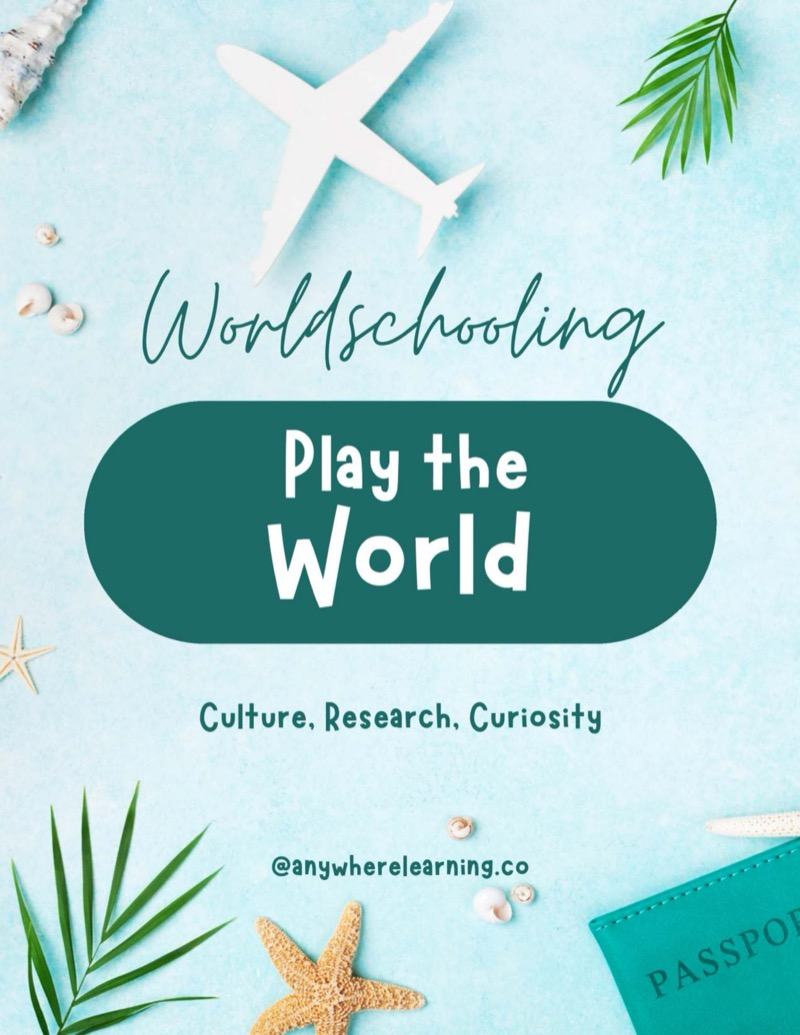
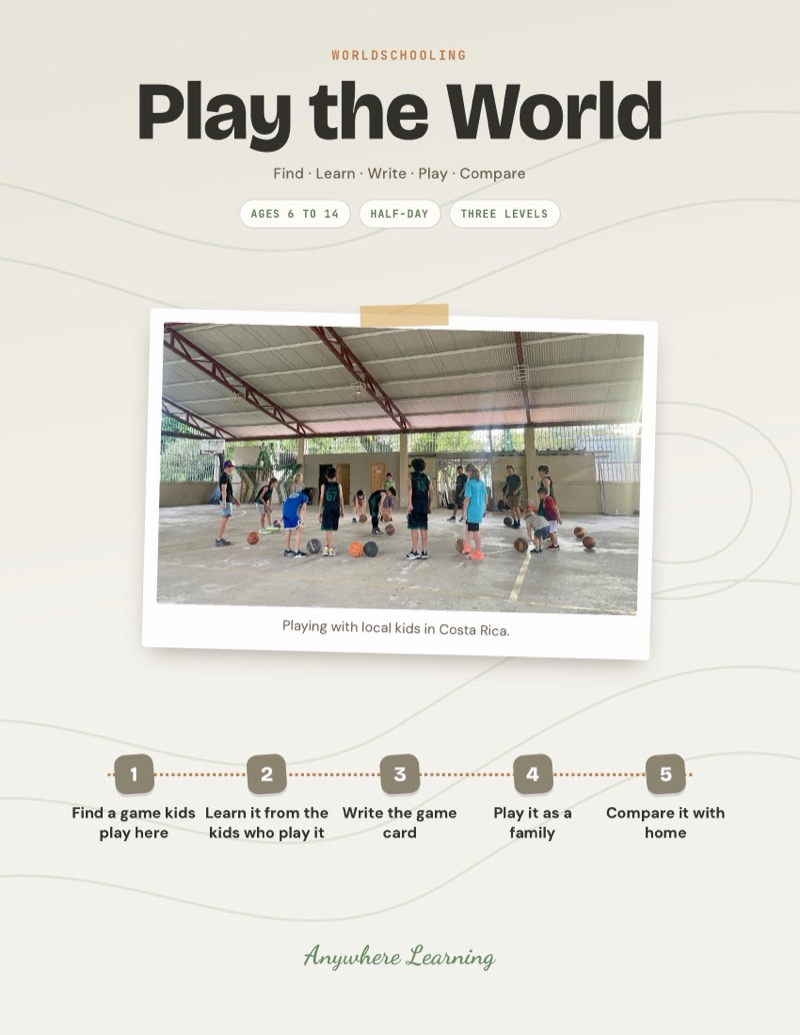
Play the World: redesigned guide, school games story, Costa Rica photo, ages 6-14; covers space photo evenly and embed the wordmark locally

diff --git a/scripts/seed.ts b/scripts/seed.ts
@@ -175,7 +175,7 @@ async function seed() {
     { name: 'Family History Detective', slug: 'family-history-detective', description: 'Your child interviews the oldest person they can talk to and uncovers the real family stories nobody has written down. They build a timeline, sketch a family tree, and turn one memory into a story worth keeping. Real interviewing, active listening, and storytelling, plus a connection across generations that most kids never get.', shortDescription: 'Communication activity for kids ages 6-14: interview an elder, build a family timeline and tree, and save the stories in writing.', priceCents: 599, compareAtPriceCents: null, stripePriceId: '', blobUrl: '', imageUrl: '/products/family-history-detective.jpg', category: 'communication-writing', isBundle: false, bundleProductIds: null, activityCount: null, ageRange: 'Ages 6–14', sortOrder: 122, active: true },
     { name: 'Teach It to Learn It', slug: 'teach-it-to-learn-it', description: 'Your child takes a skill they already know, a card trick, a recipe, a soccer move, breaks it into teachable steps, plans a real lesson, and teaches it to someone for real. Then they check if it landed and teach it better. The old truth in action: you never understand something as well as when you have to teach it.', shortDescription: 'Communication activity for kids ages 6-14: master a skill by teaching it, planning a real lesson and delivering it to a live student.', priceCents: 599, compareAtPriceCents: null, stripePriceId: '', blobUrl: '', imageUrl: '/products/teach-it-to-learn-it.jpg', category: 'communication-writing', isBundle: false, bundleProductIds: null, activityCount: null, ageRange: 'Ages 6–14', sortOrder: 123, active: true },
     { name: 'Trade It Up', slug: 'trade-it-up', description: 'Your child starts with one tiny, nearly worthless object, like a paperclip, and trades their way up through real swaps with no money changing hands. They find who wants what they have, make real offers, hear a real no and keep a log of the climb. At the end, they lay out the chain and see how far a paperclip can go.', shortDescription: 'Entrepreneurship activity for kids ages 6-14: trade one small object up through a chain of real swaps, learning negotiation and value.', priceCents: 599, compareAtPriceCents: null, stripePriceId: '', blobUrl: '', imageUrl: '/products/trade-it-up.jpg', category: 'entrepreneurship', isBundle: false, bundleProductIds: null, activityCount: null, ageRange: 'Ages 6–14', sortOrder: 132, active: true },
-    { name: 'Play the World', slug: 'play-the-world', description: 'Learn and play a real local game while travelling, and read what it reveals about the place.', shortDescription: 'Worldschooling: play the games local kids play, wherever you are.', priceCents: 599, compareAtPriceCents: null, stripePriceId: '', blobUrl: '', imageUrl: '/products/play-the-world.jpg', category: 'worldschooling', isBundle: false, bundleProductIds: null, activityCount: null, ageRange: 'Ages 6–14', sortOrder: 210, active: true },
+    { name: 'Play the World', slug: 'play-the-world', description: 'Learn a game from local kids, write the rules down the same day, teach it to the family and compare it with a game from home.', shortDescription: 'Learn a game from local kids and bring it home.', priceCents: 599, compareAtPriceCents: null, stripePriceId: '', blobUrl: '', imageUrl: '/products/play-the-world.jpg', category: 'worldschooling', isBundle: false, bundleProductIds: null, activityCount: null, ageRange: 'Ages 6–14', sortOrder: 210, active: true },
     { name: 'Be a People Scientist', slug: 'people-scientist', description: 'Hypothesis-test human behaviour with kind little experiments, tally the results, and learn something true about people.', shortDescription: 'Social skills: run kind experiments and read how people work.', priceCents: 599, compareAtPriceCents: null, stripePriceId: '', blobUrl: '', imageUrl: '/products/people-scientist.jpg', category: 'emotional-social-skills', isBundle: false, bundleProductIds: null, activityCount: null, ageRange: 'Ages 6–14', sortOrder: 232, active: true },
   ];
 

diff --git a/lib/product-descriptions.ts b/lib/product-descriptions.ts
@@ -3265,24 +3265,24 @@ export const productDescriptions: Record<string, ProductDescription> = {
   },
   'play-the-world': {
     opening:
-      'While travelling, your child finds a real game that local kids play, learns it properly, the rules, the words, the gear, and plays it right where you are. Then they figure out what the game reveals about the place. Worldschooling through the one language every child speaks: play. There is no faster way inside a culture.',
+      'Your kid finds a game that kids where you are staying really play, learns it from them, and writes down the rules the same day so it is not forgotten. Then they teach it to the family and compare it with a game from home.',
     whatsIncluded: [
-      'Find a game local kids really play',
-      'Learn the real rules, from locals if you can',
-      'Make or gather the gear',
-      'Learn the words that go with the game',
-      'Play it for real and read the culture in it',
+      'Five steps, from finding a game to comparing it with one from home',
+      'Where to find games, Ask to play, Game card and Teach it cards',
+      'The words to ask to join, learn the rules and find out the name',
+      'My game collection, with what the game shows about the place',
+      'Three levels per step, for any game, anywhere',
     ],
-    skillTags: ['Cultural Immersion', 'Observation', 'Cross-Cultural Connection', 'Curiosity', 'Worldschooling'],
+    skillTags: ['Cultural Awareness', 'Communication', 'Writing', 'Courage', 'Physical Play'],
     insideTheLearning: {
       lead:
-        'Your child plays the games local kids play, in the place they are. Not watching from the outside, joining in. It is the fastest way into a culture, and it makes them look at a new place closely enough to notice how it actually works.',
+        'Your kid learns a game from the kids who play it, then writes the rules down the same day so it is not forgotten. Teaching it to the family is the test, and comparing it with a game from home shows what kids everywhere share.',
       skills: [
-        { skill: 'Cultural Immersion', where: 'Stepping into local life by doing what local kids do, not observing it' },
-        { skill: 'Observation', where: 'Looking at a new place closely enough to see how it works' },
-        { skill: 'Cross-Cultural Connection', where: 'Playing alongside kids they cannot fully talk to yet' },
-        { skill: 'Curiosity', where: 'Following what is different instead of retreating to the familiar' },
-        { skill: 'Worldschooling', where: 'Turning being somewhere new into actual learning' },
+        { skill: 'Social Studies', where: 'What kids here play, and why' },
+        { skill: 'Communication', where: 'Asking to join and learning a game across a language gap' },
+        { skill: 'Writing', where: 'Rules clear enough for someone else to follow' },
+        { skill: 'Courage', where: 'Asking to play with kids they have just met' },
+        { skill: 'Physical Play', where: 'New ways to move, aim, run and play' },
       ],
     },
     format: 'Activity Guide',

diff --git a/lib/fallback-products.ts b/lib/fallback-products.ts
@@ -2989,15 +2989,15 @@ export const fallbackProducts: FallbackProduct[] = [
     name: "Play the World",
     slug: "play-the-world",
     description:
-      "While travelling, your child finds a real game that local kids play, learns it properly, the rules, the words, the gear, and plays it right where you are. Then they figure out what the game reveals about the place. Worldschooling through the one language every child speaks: play. There is no faster way inside a culture.",
+      "Your kid finds a game that kids where you are staying really play, learns it from them, and writes down the rules the same day so it is not forgotten. Then they teach it to the family and compare it with a game from home.",
     shortDescription:
-      "Worldschooling activity for kids ages 6-14: learn and play a real local game while travelling, and read what it reveals about the culture.",
+      "Worldschooling activity for kids ages 6-14: learn a game from local kids, write the rules down the same day, then teach it to the family.",
     priceCents: 599,
     compareAtPriceCents: null,
     stripePriceId: "",
     blobUrl: "",
     imageUrl: "/products/play-the-world.jpg",
-    previewFile: "Preview Worldschooling - Play The World.pdf",
+    previewFile: "Preview Worldschooling - Play The World v3.pdf",
     category: "worldschooling",
     isBundle: false,
     bundleProductIds: null,

diff --git a/lib/activity-blob-urls.ts b/lib/activity-blob-urls.ts
@@ -94,7 +94,7 @@ export const ACTIVITY_BLOB_URLS: Record<string, string> = {
   "people-scientist": "https://xkj3tzlgu6ylgllk.public.blob.vercel-storage.com/Emotional%20%26%20Social%20Skills%20-%20Be%20a%20People%20Scientist%20v2.pdf",
   "people-stories-interview": "https://xkj3tzlgu6ylgllk.public.blob.vercel-storage.com/Worldschooling%20-%20People%20%26%20Stories%20Interview%20Project%20v2.pdf",
   "plan-a-mini-adventure": "https://xkj3tzlgu6ylgllk.public.blob.vercel-storage.com/Planning%20%26%20Problem-Solving%20Plan%20a%20Mini%20Adventure%20v2.pdf",
-  "play-the-world": "https://xkj3tzlgu6ylgllk.public.blob.vercel-storage.com/Worldschooling%20-%20Play%20The%20World%20v2.pdf",
+  "play-the-world": "https://xkj3tzlgu6ylgllk.public.blob.vercel-storage.com/Worldschooling%20-%20Play%20The%20World%20v3.pdf",
   "pricing-experiment": "https://xkj3tzlgu6ylgllk.public.blob.vercel-storage.com/Entrepreneurship%20-%20Pricing%20Experiment%20v8.pdf",
   "privacy-footprint": "https://xkj3tzlgu6ylgllk.public.blob.vercel-storage.com/AI%20%26%20Digital%20Literacy%20-%20PRIVACY%20%26%20DIGITAL%20FOOTPRINT%20MAP%20v2.pdf",
   "probability-lab": "https://xkj3tzlgu6ylgllk.public.blob.vercel-storage.com/Real-world%20math%20-%20The%20Probability%20Lab%20v7.pdf",

diff --git a/lib/roadmap.ts b/lib/roadmap.ts
@@ -409,7 +409,7 @@ const SUPPLEMENTAL_TERRITORY_TAGS: Record<string, string[]> = {
   'family-history-detective': ['communication', 'writing', 'citizenship'],
   'teach-it-to-learn-it': ['communication', 'emotional'],
   'trade-it-up': ['communication', 'math', 'life-skills'],
-  'play-the-world': ['citizenship', 'physical'],
+  'play-the-world': ['citizenship', 'physical', 'communication'],
   'people-scientist': ['emotional', 'critical-thinking'],
   'frustration-tolerance-cards': ['emotional', 'self-management'],
   // bias-fairness-lab is an AI-bias activity but was never tagged AI & Digital.
